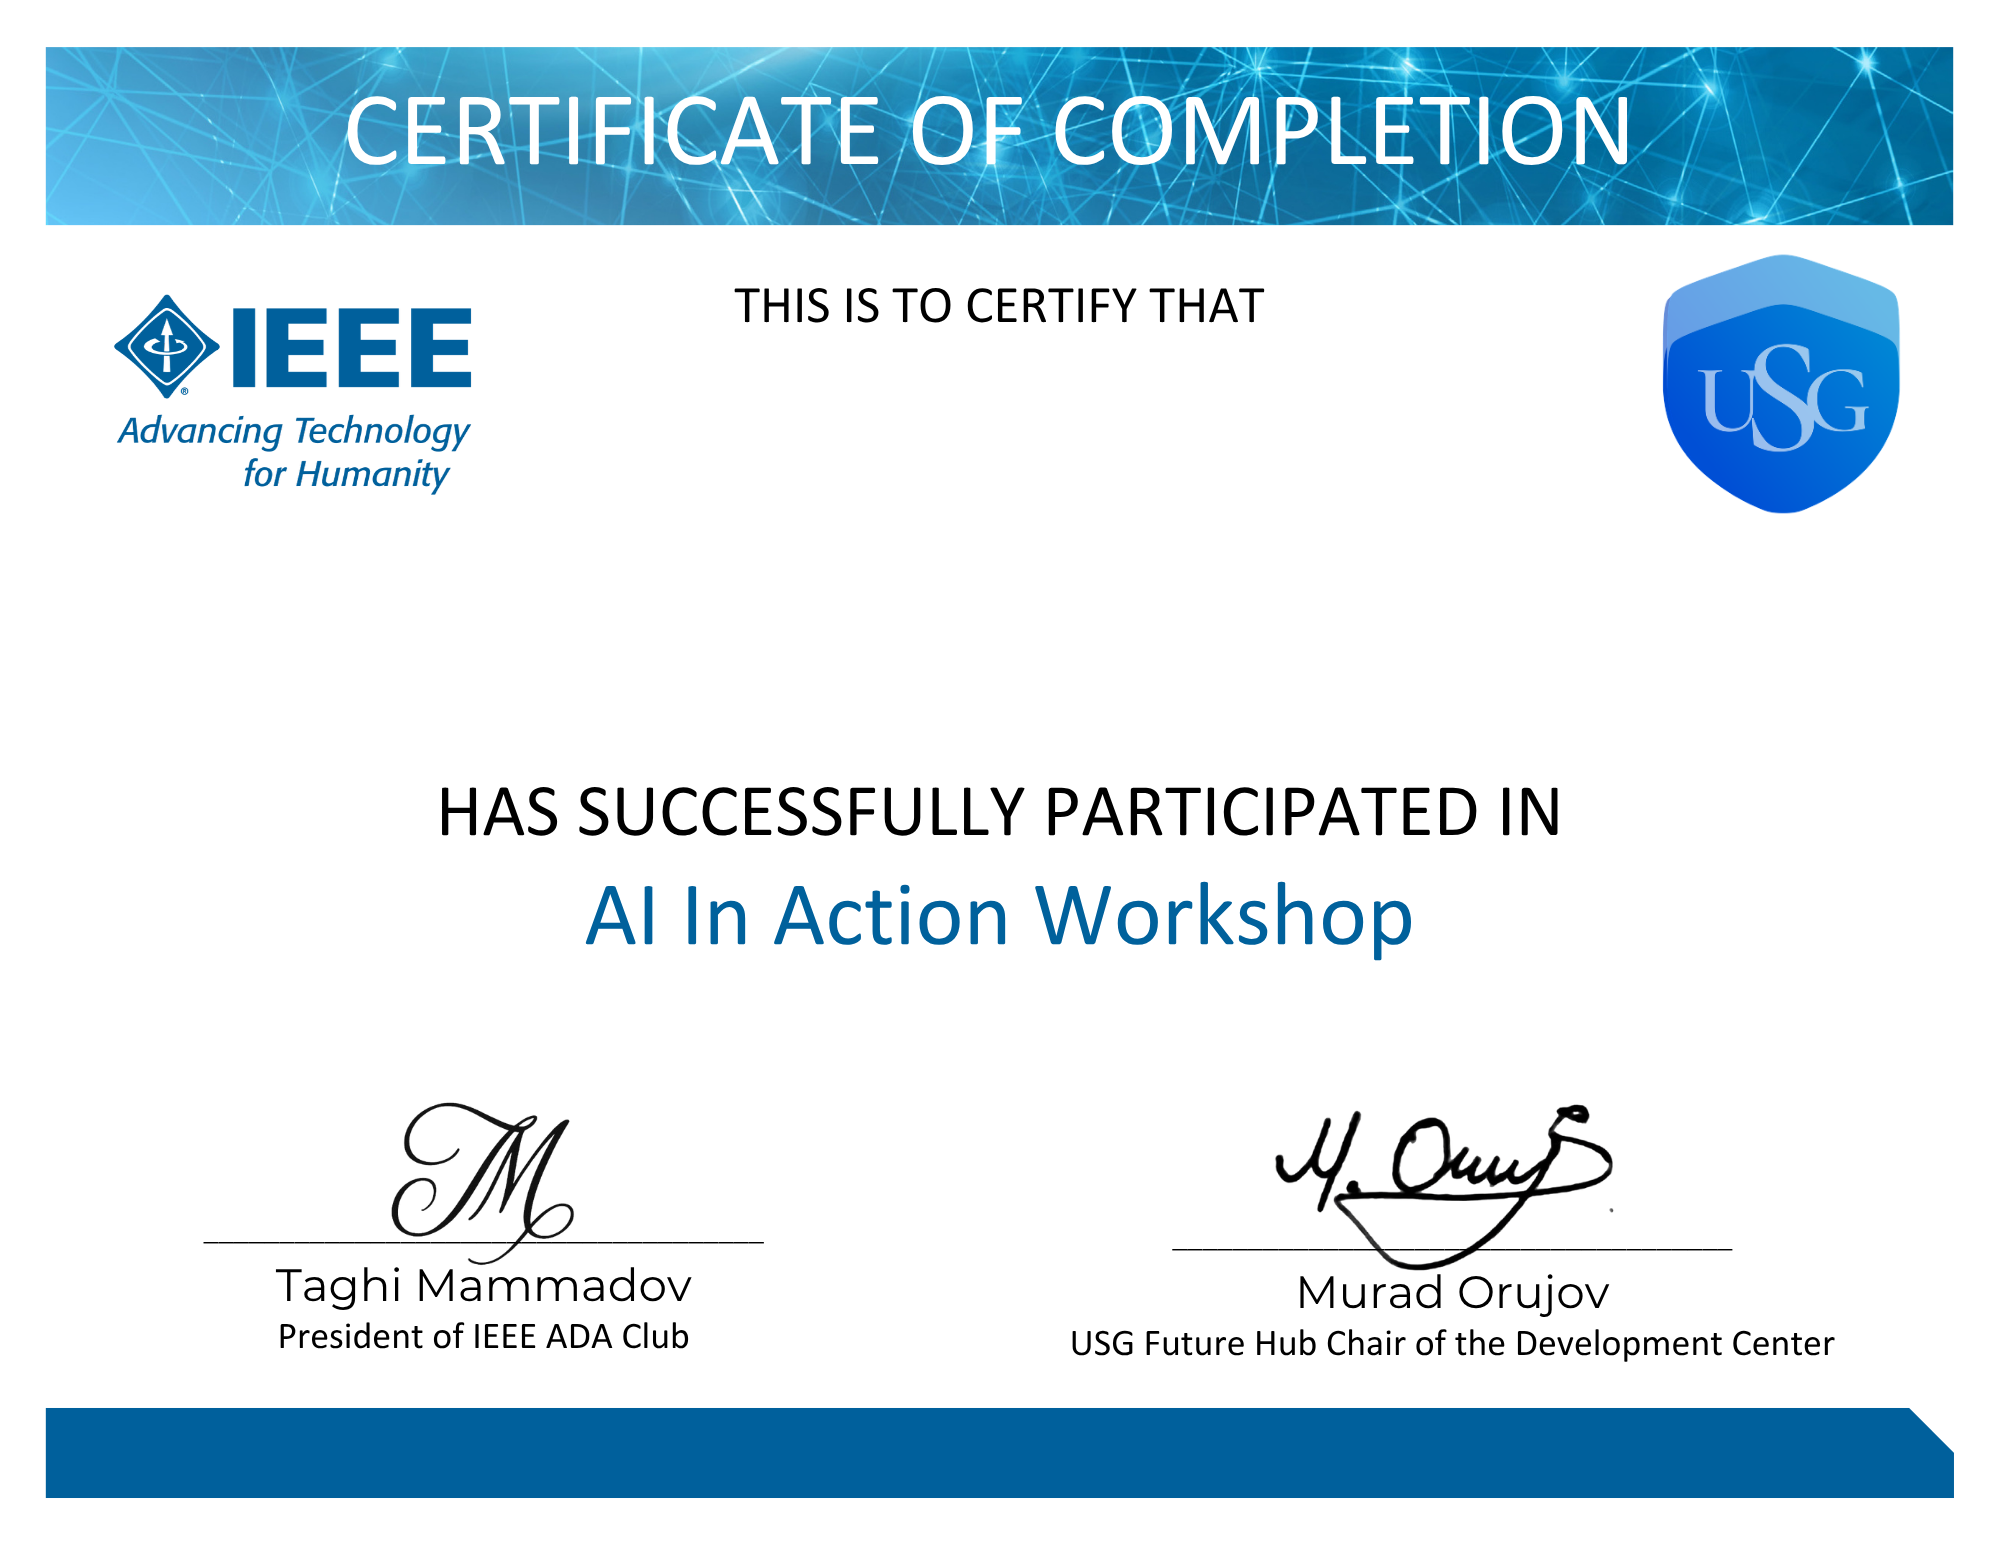
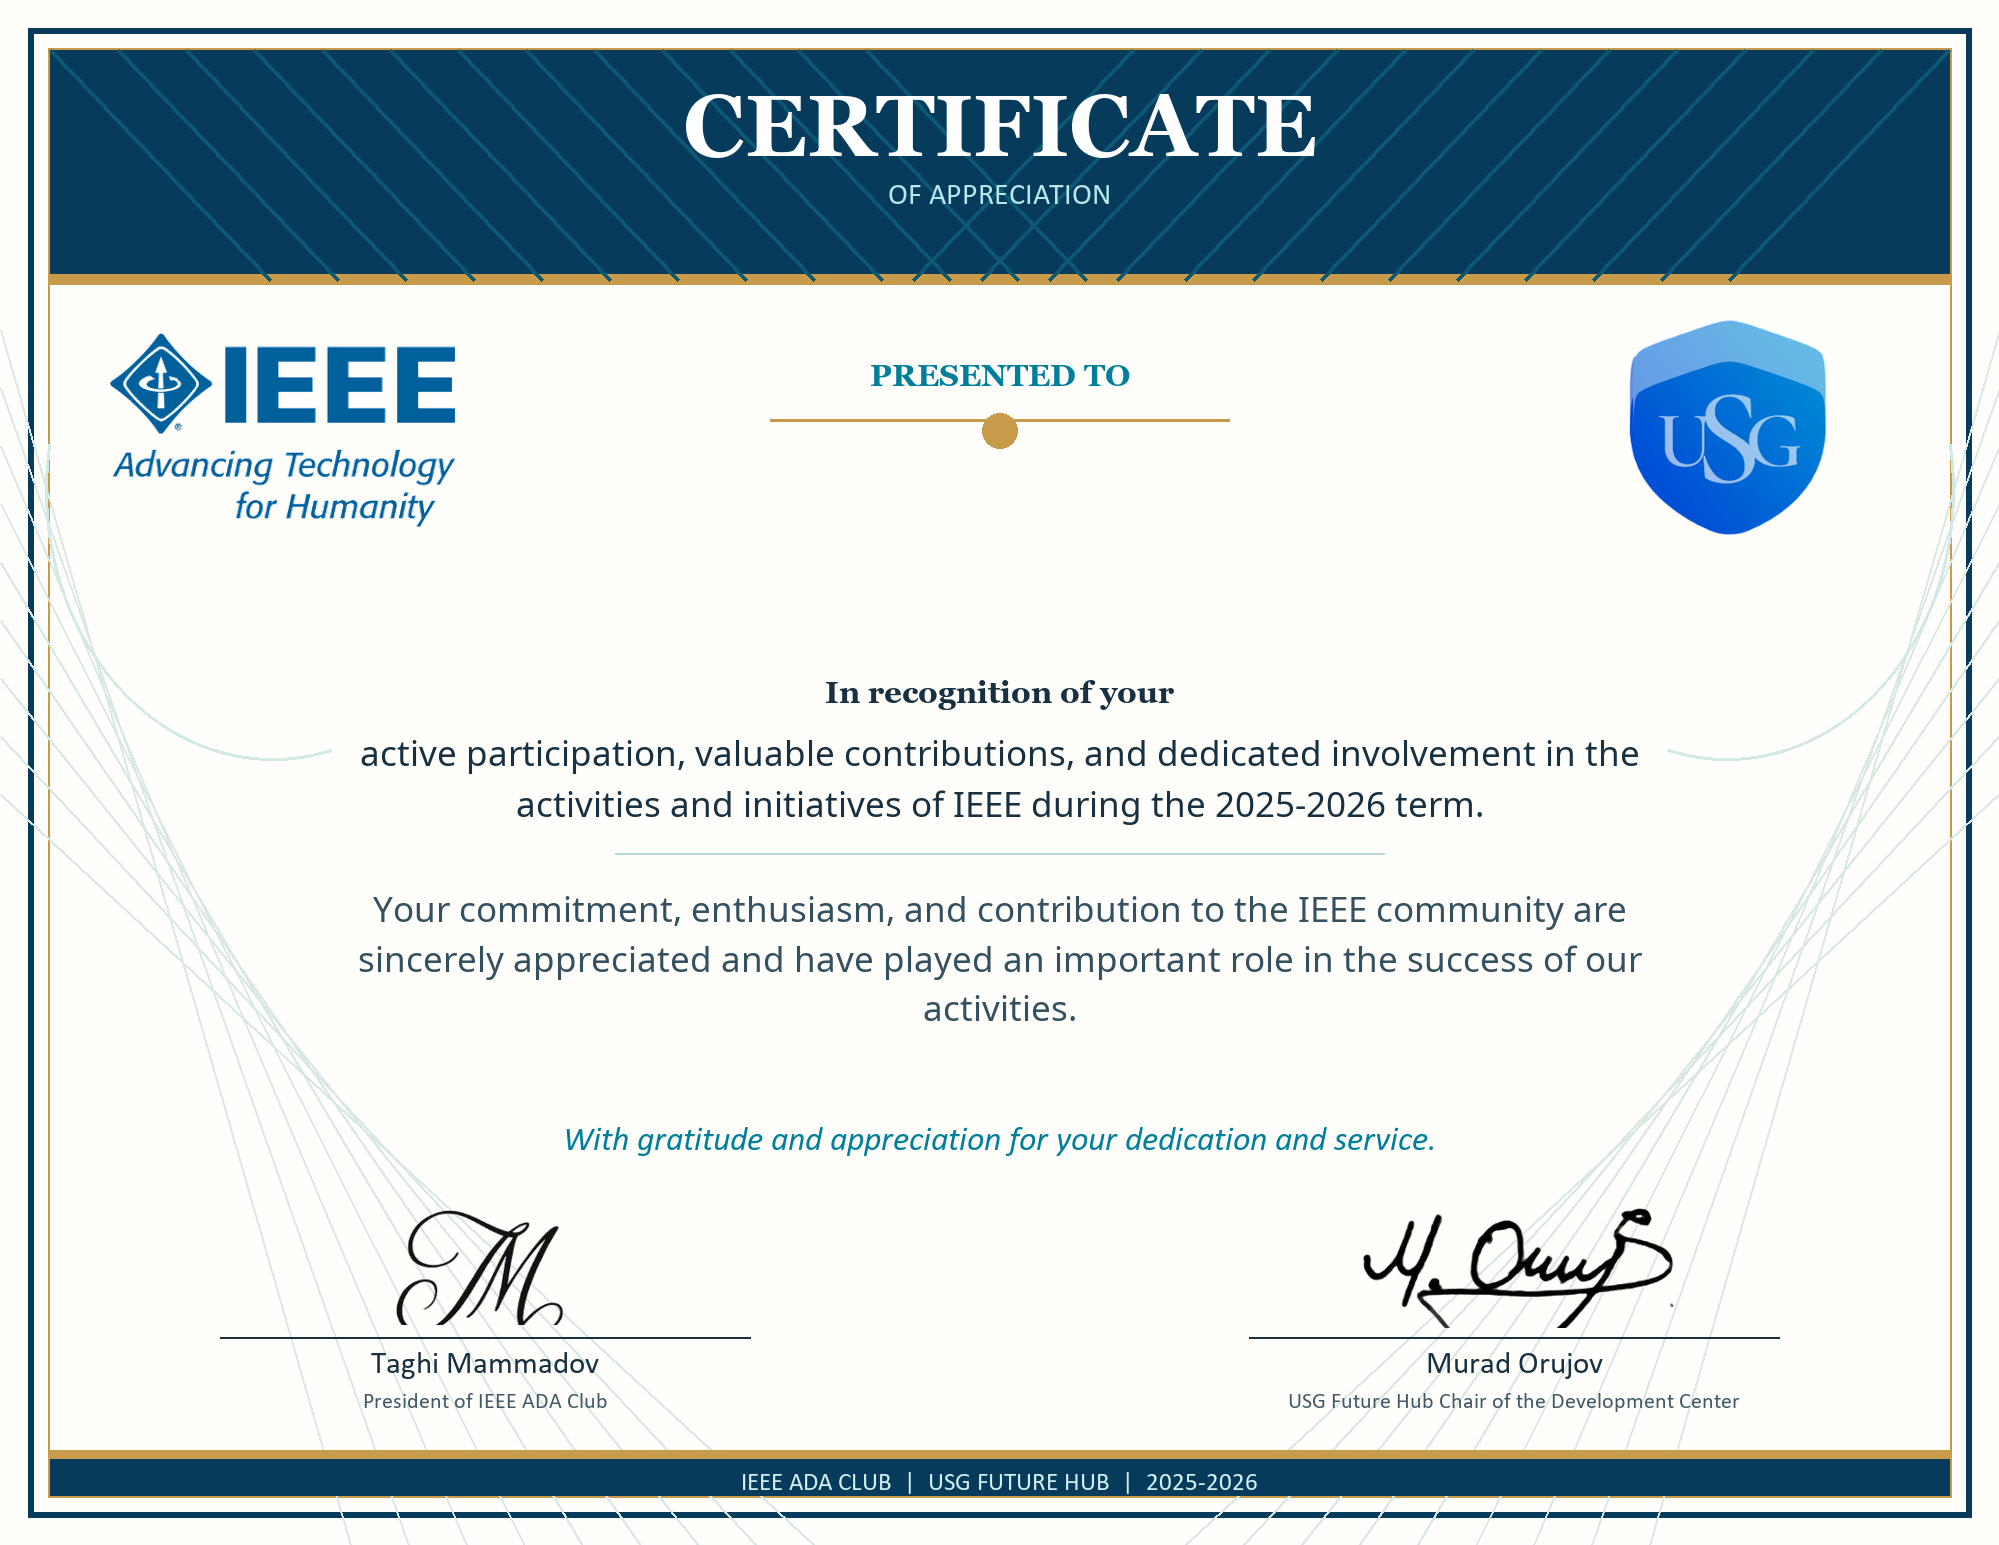
feat: add Certificate of Appreciation design

diff --git a/templates/claim.html b/templates/claim.html
@@ -4,9 +4,9 @@
 <main class="shell shell-claim">
   <section class="claim-layout">
     <article class="preview-panel">
-      <p class="eyebrow">Certificate Preview</p>
-      <h1>Download your PDF certificate</h1>
-      <p class="lead">Type the recipient name exactly as it should appear on the certificate, then download the PDF instantly.</p>
+      <p class="eyebrow">IEEE ADA Club and USG Future Hub</p>
+      <h1>Certificate of Appreciation</h1>
+      <p class="lead">Enter the recipient name exactly as it should appear on the Certificate of Appreciation, then download the PDF instantly.</p>
 
       <div class="certificate-preview">
         <img src="{{ url_for('static', filename='certificate-template.png') }}" alt="Certificate preview">
@@ -21,9 +21,9 @@
     </article>
 
     <article class="form-panel">
-      <span class="status-pill status-warning">Name only</span>
+      <span class="status-pill status-warning">2025-2026 Term</span>
       <h2>Enter recipient name</h2>
-      <p class="panel-copy">No code and no login are required. Just enter the name and download the certificate.</p>
+      <p class="panel-copy">No code or login is required. Enter the name, then download the completed Certificate of Appreciation.</p>
 
       {% if error_message %}
         <div class="alert alert-error">{{ error_message }}</div>
@@ -43,7 +43,7 @@
           data-name-input
         >
 
-        <button type="submit" class="primary-button" data-submit-label="Preparing PDF...">Download PDF</button>
+        <button type="submit" class="primary-button" data-submit-label="Preparing PDF...">Download Certificate PDF</button>
       </form>
     </article>
   </section>

diff --git a/scripts/generate_appreciation_template.py b/scripts/generate_appreciation_template.py
@@ -1,0 +1,198 @@
+from __future__ import annotations
+
+from pathlib import Path
+
+from PIL import Image, ImageDraw, ImageFont
+
+
+ROOT = Path(__file__).resolve().parents[1]
+SOURCE_PATH = ROOT / "assets" / "branding-source.png"
+OUTPUT_PATH = ROOT / "static" / "certificate-template.png"
+NOTO_FONT = ROOT / "static" / "fonts" / "NotoSans-Regular.ttf"
+
+WIDTH = 1999
+HEIGHT = 1545
+
+NAVY = "#073B5C"
+INK = "#183142"
+TEAL = "#007F9D"
+SKY = "#2CA8CC"
+GOLD = "#C89B4B"
+PAPER = "#FFFEFA"
+MIST = "#F1F8F8"
+
+
+def font(path: str | Path, size: int) -> ImageFont.FreeTypeFont:
+    return ImageFont.truetype(str(path), size)
+
+
+def center_text(draw: ImageDraw.ImageDraw, y: int, text: str, text_font: ImageFont.ImageFont, fill: str) -> None:
+    box = draw.textbbox((0, 0), text, font=text_font)
+    width = box[2] - box[0]
+    draw.text(((WIDTH - width) / 2 - box[0], y - box[1]), text, font=text_font, fill=fill)
+
+
+def text_centered_at(
+    draw: ImageDraw.ImageDraw,
+    center_x: int,
+    y: int,
+    text: str,
+    text_font: ImageFont.ImageFont,
+    fill: str,
+) -> None:
+    box = draw.textbbox((0, 0), text, font=text_font)
+    draw.text((center_x - (box[2] - box[0]) / 2 - box[0], y - box[1]), text, font=text_font, fill=fill)
+
+
+def wrapped_center_text(
+    draw: ImageDraw.ImageDraw,
+    y: int,
+    text: str,
+    text_font: ImageFont.ImageFont,
+    fill: str,
+    max_width: int,
+    line_gap: int,
+) -> int:
+    words = text.split()
+    lines: list[str] = []
+    line = ""
+    for word in words:
+        candidate = f"{line} {word}".strip()
+        if draw.textbbox((0, 0), candidate, font=text_font)[2] <= max_width or not line:
+            line = candidate
+        else:
+            lines.append(line)
+            line = word
+    if line:
+        lines.append(line)
+
+    current_y = y
+    for line in lines:
+        center_text(draw, current_y, line, text_font, fill)
+        bounds = draw.textbbox((0, 0), line, font=text_font)
+        current_y += (bounds[3] - bounds[1]) + line_gap
+    return current_y
+
+
+def non_white_crop(source: Image.Image, crop_box: tuple[int, int, int, int], threshold: int = 238) -> Image.Image:
+    crop = source.crop(crop_box).convert("RGBA")
+    pixels = crop.load()
+    for y in range(crop.height):
+        for x in range(crop.width):
+            red, green, blue, alpha = pixels[x, y]
+            if red >= threshold and green >= threshold and blue >= threshold:
+                pixels[x, y] = (red, green, blue, 0)
+            else:
+                pixels[x, y] = (red, green, blue, alpha)
+
+    alpha_channel = crop.getchannel("A")
+    box = alpha_channel.getbbox()
+    return crop.crop(box) if box else crop
+
+
+def paste_contained(canvas: Image.Image, image: Image.Image, box: tuple[int, int, int, int]) -> None:
+    target_width = box[2] - box[0]
+    target_height = box[3] - box[1]
+    ratio = min(target_width / image.width, target_height / image.height)
+    size = (max(1, round(image.width * ratio)), max(1, round(image.height * ratio)))
+    resized = image.resize(size, Image.Resampling.LANCZOS)
+    x = box[0] + (target_width - resized.width) // 2
+    y = box[1] + (target_height - resized.height) // 2
+    canvas.alpha_composite(resized, (x, y))
+
+
+def add_corner_geometry(draw: ImageDraw.ImageDraw) -> None:
+    for offset in range(0, 520, 58):
+        draw.line((0, 330 + offset, 350 + offset, HEIGHT), fill="#D7E8E5", width=2)
+        draw.line((WIDTH, 330 + offset, WIDTH - 350 - offset, HEIGHT), fill="#D7E8E5", width=2)
+    draw.arc((45, 220, 500, 760), 75, 190, fill="#D3E9E6", width=3)
+    draw.arc((WIDTH - 500, 220, WIDTH - 45, 760), -10, 105, fill="#D3E9E6", width=3)
+
+
+def main() -> None:
+    if not SOURCE_PATH.exists():
+        raise FileNotFoundError(f"Branding source not found: {SOURCE_PATH}")
+
+    source = Image.open(SOURCE_PATH).convert("RGBA")
+    canvas = Image.new("RGBA", (WIDTH, HEIGHT), PAPER)
+    draw = ImageDraw.Draw(canvas)
+
+    draw.rectangle((0, 0, WIDTH, HEIGHT), fill=PAPER)
+    draw.rectangle((28, 28, WIDTH - 28, HEIGHT - 28), outline=NAVY, width=6)
+    draw.rectangle((48, 48, WIDTH - 48, HEIGHT - 48), outline=GOLD, width=2)
+
+    draw.rectangle((50, 50, WIDTH - 50, 280), fill=NAVY)
+    draw.rectangle((50, 274, WIDTH - 50, 284), fill=GOLD)
+    for index in range(0, 850, 68):
+        draw.line((50 + index, 50, 50 + index + 220, 280), fill="#0C5976", width=3)
+        draw.line((WIDTH - 50 - index, 50, WIDTH - 50 - index - 220, 280), fill="#0C5976", width=3)
+
+    add_corner_geometry(draw)
+
+    title_font = font(r"C:\Windows\Fonts\georgiab.ttf", 86)
+    subtitle_font = font(r"C:\Windows\Fonts\calibri.ttf", 30)
+    heading_font = font(r"C:\Windows\Fonts\georgiab.ttf", 31)
+    body_font = font(NOTO_FONT, 35)
+    body_emphasis_font = font(r"C:\Windows\Fonts\calibrii.ttf", 34)
+    footer_font = font(r"C:\Windows\Fonts\calibri.ttf", 25)
+
+    center_text(draw, 94, "CERTIFICATE", title_font, "#FFFFFF")
+    center_text(draw, 185, "OF APPRECIATION", subtitle_font, "#B9E7EB")
+
+    ieee = non_white_crop(source, (80, 235, 530, 510))
+    usg = non_white_crop(source, (1580, 250, 1940, 530))
+    paste_contained(canvas, ieee, (110, 330, 455, 530))
+    paste_contained(canvas, usg, (1560, 320, 1895, 535))
+
+    center_text(draw, 365, "PRESENTED TO", heading_font, TEAL)
+    draw.line((770, 420, 1229, 420), fill=GOLD, width=3)
+    draw.ellipse((982, 413, 1017, 448), fill=GOLD)
+
+    # This clear field is intentionally left for the app to render the recipient name.
+    center_text(draw, 680, "In recognition of your", heading_font, INK)
+    next_y = wrapped_center_text(
+        draw,
+        740,
+        "active participation, valuable contributions, and dedicated involvement in the activities and initiatives of IEEE during the 2025-2026 term.",
+        body_font,
+        INK,
+        1370,
+        16,
+    )
+    draw.line((615, next_y + 12, 1384, next_y + 12), fill="#B8D7D6", width=2)
+    wrapped_center_text(
+        draw,
+        next_y + 55,
+        "Your commitment, enthusiasm, and contribution to the IEEE community are sincerely appreciated and have played an important role in the success of our activities.",
+        body_font,
+        "#345161",
+        1390,
+        15,
+    )
+    center_text(draw, 1127, "With gratitude and appreciation for your dedication and service.", body_emphasis_font, TEAL)
+
+    signature_left = non_white_crop(source, (300, 1050, 740, 1228), 235)
+    signature_right = non_white_crop(source, (1210, 1045, 1680, 1235), 235)
+    paste_contained(canvas, signature_left, (225, 1210, 735, 1325))
+    paste_contained(canvas, signature_right, (1264, 1208, 1774, 1328))
+
+    draw.line((220, 1337, 750, 1337), fill=INK, width=2)
+    draw.line((1249, 1337, 1779, 1337), fill=INK, width=2)
+    signer_font = font(r"C:\Windows\Fonts\calibri.ttf", 31)
+    signer_role_font = font(r"C:\Windows\Fonts\calibri.ttf", 22)
+    text_centered_at(draw, 485, 1352, "Taghi Mammadov", signer_font, INK)
+    text_centered_at(draw, 485, 1393, "President of IEEE ADA Club", signer_role_font, "#405968")
+    text_centered_at(draw, 1514, 1352, "Murad Orujov", signer_font, INK)
+    text_centered_at(draw, 1514, 1393, "USG Future Hub Chair of the Development Center", signer_role_font, "#405968")
+
+    draw.rectangle((50, 1450, WIDTH - 50, HEIGHT - 50), fill=NAVY)
+    draw.rectangle((50, 1450, WIDTH - 50, 1458), fill=GOLD)
+    center_text(draw, 1472, "IEEE ADA CLUB  |  USG FUTURE HUB  |  2025-2026", footer_font, "#D5F0F0")
+
+    OUTPUT_PATH.parent.mkdir(parents=True, exist_ok=True)
+    canvas.convert("RGB").save(OUTPUT_PATH, format="PNG", optimize=True)
+    print(f"Wrote {OUTPUT_PATH}")
+
+
+if __name__ == "__main__":
+    main()

diff --git a/app.py b/app.py
@@ -15,7 +15,7 @@ BASE_DIR = Path(__file__).resolve().parent
 DEFAULT_TEMPLATE_IMAGE = BASE_DIR / "static" / "certificate-template.png"
 DEFAULT_BUNDLED_FONT = BASE_DIR / "static" / "fonts" / "NotoSans-Regular.ttf"
 
-NAME_BOX = (472, 592, 1532, 688)
+NAME_BOX = (472, 510, 1532, 650)
 NAME_COLOR = (0, 100, 158)
 MAX_FONT_SIZE = 92
 MIN_FONT_SIZE = 40
@@ -99,13 +99,13 @@ def create_app(test_config: dict[str, Any] | None = None) -> Flask:
             except ValueError as exc:
                 return render_template(
                     "claim.html",
-                    page_title="Claim Certificate",
+                    page_title="Certificate of Appreciation",
                     current_name=current_name,
                     error_message=str(exc),
                 ), 400
 
             pdf_bytes = build_certificate_pdf(recipient_name)
-            download_name = f"AI-In-Action-Certificate-{slugify_filename(recipient_name)}.pdf"
+            download_name = f"IEEE-Certificate-of-Appreciation-{slugify_filename(recipient_name)}.pdf"
             return send_file(
                 io.BytesIO(pdf_bytes),
                 mimetype="application/pdf",
@@ -115,7 +115,7 @@ def create_app(test_config: dict[str, Any] | None = None) -> Flask:
 
         return render_template(
             "claim.html",
-            page_title="Claim Certificate",
+            page_title="Certificate of Appreciation",
             current_name=current_name,
             error_message=error_message,
         )

diff --git a/test_app.py b/test_app.py
@@ -16,12 +16,13 @@ class CertificateClaimAppTests(unittest.TestCase):
     def test_home_page_loads(self) -> None:
         response = self.client.get("/")
         self.assertEqual(response.status_code, 200)
-        self.assertIn(b"Download your PDF certificate", response.data)
+        self.assertIn(b"Certificate of Appreciation", response.data)
 
     def test_valid_name_downloads_pdf(self) -> None:
         response = self.client.post("/", data={"name": "Murad Orujov"})
         self.assertEqual(response.status_code, 200)
         self.assertEqual(response.mimetype, "application/pdf")
+        self.assertIn("IEEE-Certificate-of-Appreciation-murad-orujov.pdf", response.headers["Content-Disposition"])
 
     def test_bundled_font_is_available(self) -> None:
         font_path = self.app.config["FONT_PATH"]

diff --git a/README.md b/README.md
@@ -1,12 +1,12 @@
 # Certificate Claim App
 
-This app provides one public certificate page. A participant enters a name and downloads the PDF certificate immediately.
+This app provides one public Certificate of Appreciation page for the IEEE ADA Club and USG Future Hub 2025-2026 term. A participant enters a name and downloads the finished PDF immediately.
 
 ## What it does
 
 - Gives you one public certificate page to share with everyone
 - Shows a certificate page where the participant enters a name
-- Generates the PDF using your uploaded certificate template
+- Generates the PDF using the included Certificate of Appreciation design
 - Downloads the PDF immediately
 
 ## Run locally
@@ -32,6 +32,7 @@ http://127.0.0.1:5050
 
 - `static/certificate-template.png`: your certificate template
 - `static/fonts/NotoSans-Regular.ttf`: bundled open font used by the PDF renderer so name sizing stays correct in deployment
+- `scripts/generate_appreciation_template.py`: reproducibly generates the current certificate design from the supplied logo and signature source
 
 ## Optional environment variables
 
